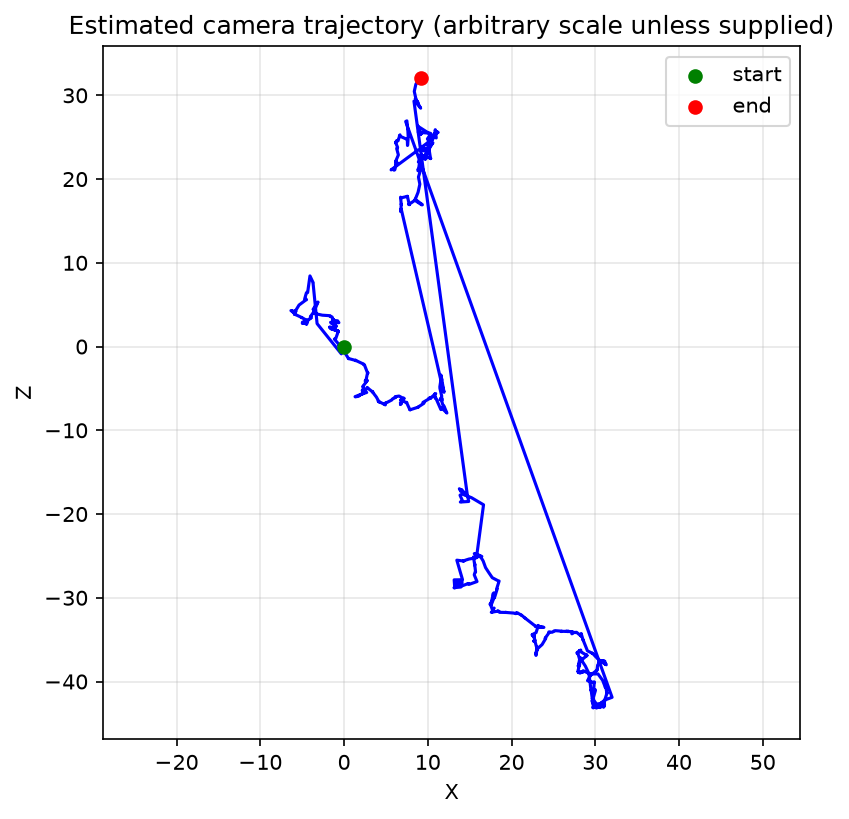
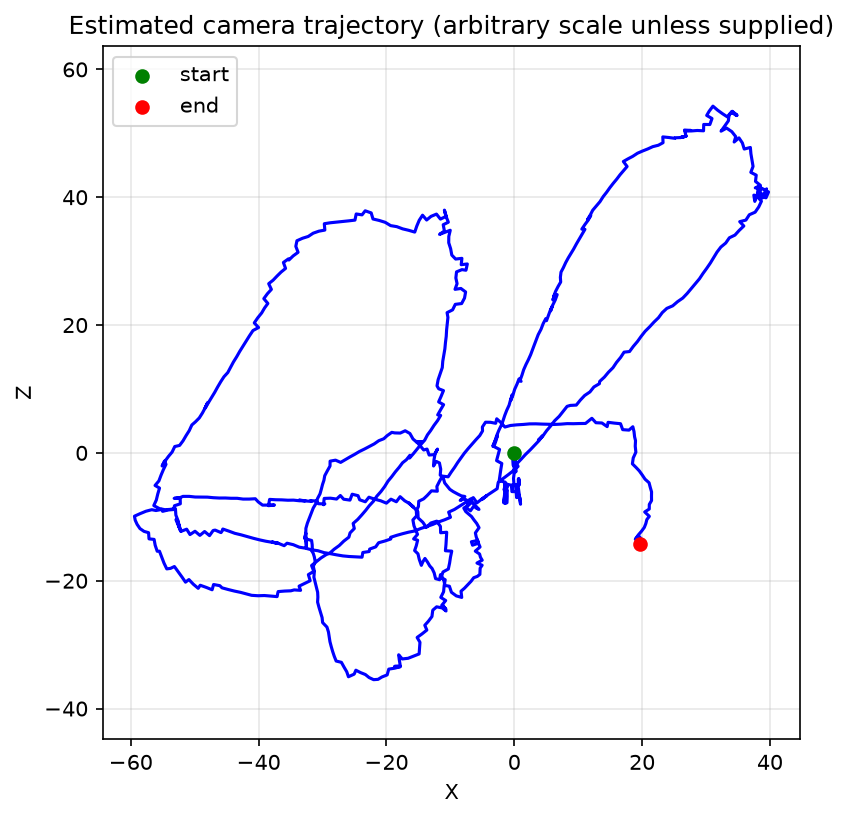
orb slam

diff --git a/orb-slam/monocular_vo.py b/orb-slam/monocular_vo.py
@@ -22,22 +22,12 @@ Install:
 Pipeline per frame:
     1. Detect ORB keypoints + descriptors with python_orb_slam3.ORBExtractor.
     2. Match against the previous frame's descriptors (ratio test).
-    3. Fit BOTH an Essential matrix E and a Homography H with RANSAC.
-    4. Model selection (as in ORB-SLAM's initializer): the Essential matrix
-       E = [t]_x R is mathematically degenerate as the translation t -> 0,
-       so pure/near-pure camera rotation (panning/turning in place, little
-       or no translation) makes E-based rotation estimates noisy or wrong.
-       A Homography stays well-conditioned in exactly that regime, so if H
-       explains the matches at least as well as E does (by inlier ratio),
-       rotation is recovered by decomposing H instead of E.
+    3. Estimate the Essential matrix E with RANSAC (needs camera intrinsics K).
+    4. Recover relative rotation R and translation direction t from E.
     5. Accumulate global pose:  R_global = R * R_global ;  t_global += s * R_global * t
        (monocular VO cannot recover absolute scale s from a single camera --
         you either supply it externally, e.g. from wheel odometry/GPS/IMU/known
         speed, or just visualize the trajectory up to an unknown scale factor.)
-    6. Track how much rotation has actually occurred: per-frame relative
-       rotation angle, a running cumulative total, and the current absolute
-       yaw/pitch/roll, all printed/drawn so you can read the numbers instead
-       of only seeing a (possibly flat) translation trace.
 
 Visualization:
     - A live OpenCV window showing detected keypoints on the current frame.
@@ -77,34 +67,6 @@ except ImportError as e:
         "architectures you need to build it from source, see the project's "
         "GitHub page for build instructions)."
     ) from e
-
-
-# --------------------------------------------------------------------------- #
-# Rotation utilities
-# --------------------------------------------------------------------------- #
-def rotation_angle_deg(R):
-    """Magnitude of the rotation represented by R, in degrees (axis-angle norm).
-    Sign-agnostic -- useful as a 'how much did it turn' odometer even when
-    the axis of rotation varies frame to frame."""
-    rvec, _ = cv2.Rodrigues(R.astype(np.float64))
-    return float(np.degrees(np.linalg.norm(rvec)))
-
-
-def rotation_matrix_to_euler_deg(R):
-    """Yaw/pitch/roll in degrees for OpenCV camera axes (X-right, Y-down, Z-forward):
-    yaw = turning left/right (rotation about Y), pitch = tilting up/down
-    (rotation about X), roll = tilting sideways (rotation about Z)."""
-    sy = np.sqrt(R[0, 2] ** 2 + R[2, 2] ** 2)
-    singular = sy < 1e-6
-    if not singular:
-        yaw = np.arctan2(R[0, 2], R[2, 2])
-        pitch = np.arctan2(-R[1, 2], sy)
-        roll = np.arctan2(R[1, 0], R[1, 1])
-    else:
-        yaw = np.arctan2(-R[2, 0], R[0, 0])
-        pitch = np.arctan2(-R[1, 2], sy)
-        roll = 0.0
-    return tuple(float(v) for v in np.degrees([yaw, pitch, roll]))
 
 
 # --------------------------------------------------------------------------- #
@@ -155,23 +117,25 @@ class FrameReader:
 # Core monocular VO
 # --------------------------------------------------------------------------- #
 class MonocularVO:
-    def __init__(self, K, n_features=3000, min_matches=8, ratio=0.75,
-                 homography_ratio_thresh=0.45, min_parallax_px=0.75):
+    def __init__(self, K, n_features=3000, min_matches=8, ratio=0.75):
         self.K = K
         # ORB-SLAM3's own feature extractor (quad-tree keypoint distribution),
         # API-compatible with cv2.ORB_create()'s detectAndCompute().
         self.orb = ORBExtractor(n_features=n_features, scale_factor=1.2, n_levels=8)
         self.bf = cv2.BFMatcher(cv2.NORM_HAMMING, crossCheck=False)
+        # Define LSH index parameters for binary descriptors
+        FLANN_INDEX_LSH = 6
+        index_params = dict(
+            algorithm=FLANN_INDEX_LSH,
+            table_number=6,       # Standard recommendation
+            key_size=12,          # Standard recommendation
+            multi_probe_level=1,   # Standard recommendation
+        )
+        search_params = dict(checks=50)
+        # Initialize the matcher with LSH parameters
+        self.flann = cv2.FlannBasedMatcher(index_params, search_params)
         self.min_matches = min_matches
         self.ratio = ratio
-        # If the homography inlier ratio SH/(SH+SE) exceeds this, prefer the
-        # homography-derived rotation over the essential-matrix one (ORB-SLAM
-        # uses ~0.45 here). This is what rescues rotation estimates during
-        # near-pure-rotation motion, where the essential matrix is degenerate.
-        self.homography_ratio_thresh = homography_ratio_thresh
-        # Skip the pose update entirely if the median match displacement (px)
-        # is below this -- there isn't enough signal to trust any estimate.
-        self.min_parallax_px = min_parallax_px
 
         self.prev_gray = None
         self.prev_kp = None
@@ -183,11 +147,7 @@ class MonocularVO:
         # trajectory[i] is the 3x1 camera position at step i (arbitrary scale
         # unless an external scale is supplied every frame)
         self.trajectory = [self.cur_t.copy()]
-        self.orientations = [self.cur_R.copy()]
         self.num_inlier_matches = 0
-        self.pose_model = None  # "essential" or "homography", whichever was used last
-        self.last_relative_rotation_deg = 0.0
-        self.cumulative_rotation_deg = 0.0  # running total, an "odometer" for turning
 
     @staticmethod
     def to_gray(frame):
@@ -201,7 +161,7 @@ class MonocularVO:
     def _match(self, des1, des2):
         if des1 is None or des2 is None or len(des1) < 2 or len(des2) < 2:
             return []
-        knn = self.bf.knnMatch(des1, des2, k=2)
+        knn = self.flann.knnMatch(des1, des2, k=2)
         good = []
         for pair in knn:
             if len(pair) != 2:
@@ -210,61 +170,6 @@ class MonocularVO:
             if m.distance < self.ratio * n.distance:
                 good.append(m)
         return good
-
-    @staticmethod
-    def _select_homography_solution(Rs, Ts, Ns, pts_prev, pts_cur):
-        """Pick the physically valid homography decomposition. decomposeHomographyMat
-        returns up to 4 mathematical solutions; filter by the positive-depth
-        (cheirality) constraint when possible, then break any remaining tie by
-        preferring the smallest translation norm -- correct in the near-pure-
-        rotation regime this fallback targets, where the true translation is
-        close to zero."""
-        num = len(Rs)
-        candidates = list(range(num))
-        try:
-            sol = cv2.filterHomographyDecompByVisibleRefpoints(
-                Rs, Ns,
-                pts_prev.reshape(-1, 1, 2).astype(np.float32),
-                pts_cur.reshape(-1, 1, 2).astype(np.float32),
-            )
-            if sol is not None and len(sol) > 0:
-                candidates = sol.flatten().tolist()
-        except cv2.error:
-            pass  # keep the unfiltered candidate list
-        return min(candidates, key=lambda i: np.linalg.norm(Ts[i]))
-
-    def _estimate_relative_pose(self, pts_prev, pts_cur):
-        """Returns (R, t, model_name, num_inliers) or (None, None, None, 0)."""
-        E, mask_e = cv2.findEssentialMat(
-            pts_cur, pts_prev, self.K, method=cv2.RANSAC, prob=0.999, threshold=1.0
-        )
-        H, mask_h = cv2.findHomography(pts_prev, pts_cur, cv2.RANSAC, 3.0)
-
-        inliers_e = int(mask_e.sum()) if mask_e is not None else 0
-        inliers_h = int(mask_h.sum()) if mask_h is not None else 0
-
-        if inliers_e + inliers_h == 0:
-            return None, None, None, 0
-
-        homography_ratio = inliers_h / max(inliers_e + inliers_h, 1)
-
-        # --- Prefer homography when it explains the motion at least as well:
-        # this is the case that rescues rotation during near-pure-rotation
-        # motion, where the essential matrix is degenerate. ---
-        if H is not None and homography_ratio > self.homography_ratio_thresh:
-            num, Rs, Ts, Ns = cv2.decomposeHomographyMat(H, self.K)
-            if num > 0:
-                best = self._select_homography_solution(Rs, Ts, Ns, pts_prev, pts_cur)
-                return Rs[best], Ts[best], "homography", inliers_h
-
-        # --- Otherwise fall back to the essential matrix (needs real baseline) ---
-        if E is not None and E.shape == (3, 3):
-            _, R, t, pose_mask = cv2.recoverPose(E, pts_cur, pts_prev, self.K, mask=mask_e)
-            n_inliers = int(pose_mask.sum()) if pose_mask is not None else 0
-            if n_inliers >= self.min_matches:
-                return R, t, "essential", n_inliers
-
-        return None, None, None, 0
 
     def process_frame(self, frame, scale=1.0):
         """
@@ -287,28 +192,22 @@ class MonocularVO:
         pts_prev = np.float32([self.prev_kp[m.queryIdx].pt for m in matches])
         pts_cur = np.float32([kp[m.trainIdx].pt for m in matches])
 
-        # Not enough parallax (near-static frames, duplicated frames, etc.) --
-        # skip rather than accept a numerically unstable estimate.
-        median_flow = float(np.median(np.linalg.norm(pts_cur - pts_prev, axis=1)))
-        if median_flow < self.min_parallax_px:
+        E, mask = cv2.findEssentialMat(
+            pts_cur, pts_prev, self.K, method=cv2.RANSAC, prob=0.999, threshold=1.0
+        )
+
+        if E is None or E.shape != (3, 3):
             self.prev_gray, self.prev_kp, self.prev_des = gray, kp, des
             return kp, matches
 
-        R, t, model, n_inliers = self._estimate_relative_pose(pts_prev, pts_cur)
-        self.num_inlier_matches = n_inliers
-        self.pose_model = model
+        _, R, t, pose_mask = cv2.recoverPose(E, pts_cur, pts_prev, self.K, mask=mask)
+        self.num_inlier_matches = int(pose_mask.sum()) if pose_mask is not None else 0
 
-        if R is not None:
-            # Per-frame and cumulative rotation, so "how much rotation has
-            # occurred" is an explicit number instead of something you have
-            # to infer from the trajectory shape.
-            self.last_relative_rotation_deg = rotation_angle_deg(R)
-            self.cumulative_rotation_deg += self.last_relative_rotation_deg
-
+        # Reject degenerate / low-inlier estimates
+        if self.num_inlier_matches >= self.min_matches:
             self.cur_t = self.cur_t + scale * (self.cur_R @ t)
             self.cur_R = R @ self.cur_R
             self.trajectory.append(self.cur_t.copy())
-            self.orientations.append(self.cur_R.copy())
 
         self.prev_gray, self.prev_kp, self.prev_des = gray, kp, des
         return kp, matches
@@ -317,11 +216,8 @@ class MonocularVO:
 # --------------------------------------------------------------------------- #
 # Visualization helpers
 # --------------------------------------------------------------------------- #
-def draw_trajectory_canvas(trajectory, orientations=None, canvas_size=600, world_scale=1.0):
-    """Renders the X-Z trajectory onto a fresh top-down canvas each call.
-    If `orientations` is given, also draws an arrow for the current heading
-    (the camera's forward/+Z axis projected onto the X-Z plane) so rotation
-    is visible, not just position."""
+def draw_trajectory_canvas(trajectory, canvas_size=600, world_scale=1.0):
+    """Renders the X-Z trajectory onto a fresh top-down canvas each call."""
     canvas = np.full((canvas_size, canvas_size, 3), 30, dtype=np.uint8)
     cx, cy = canvas_size // 2, canvas_size // 2
     cv2.circle(canvas, (cx, cy), 3, (0, 0, 255), -1)  # origin marker
@@ -339,16 +235,7 @@ def draw_trajectory_canvas(trajectory, orientations=None, canvas_size=600, world
     if pts:
         cv2.circle(canvas, pts[-1], 4, (255, 255, 0), -1)  # current position
 
-        if orientations is not None and len(orientations) == len(pts):
-            forward = orientations[-1] @ np.array([0.0, 0.0, 1.0])  # camera +Z in world
-            heading = np.array([forward[0], forward[2]])
-            norm = np.linalg.norm(heading)
-            if norm > 1e-6:
-                heading = heading / norm * 25  # fixed-length arrow
-                tip = (int(pts[-1][0] + heading[0]), int(pts[-1][1] + heading[1]))
-                cv2.arrowedLine(canvas, pts[-1], tip, (0, 165, 255), 2, tipLength=0.35)
-
-    cv2.putText(canvas, "Top-down trajectory (X-Z), arrow = heading", (10, 20),
+    cv2.putText(canvas, "Top-down trajectory (X-Z)", (10, 20),
                 cv2.FONT_HERSHEY_SIMPLEX, 0.5, (200, 200, 200), 1)
     return canvas
 
@@ -377,8 +264,8 @@ def main():
     parser = argparse.ArgumentParser(description="Monocular Visual Odometry (ORB + Essential matrix)")
     parser.add_argument("--source", default="1",
                          help="Webcam index (e.g. 0), path to a video file, or path to a folder of image frames")
-    parser.add_argument("--fx", type=float, default=1345/4, help="Focal length x (pixels)")
-    parser.add_argument("--fy", type=float, default=1345/4, help="Focal length y (pixels)")
+    parser.add_argument("--fx", type=float, default=1345, help="Focal length x (pixels)")
+    parser.add_argument("--fy", type=float, default=1345, help="Focal length y (pixels)")
     parser.add_argument("--cx", type=float, default=360/2, help="Principal point x")
     parser.add_argument("--cy", type=float, default=640/2, help="Principal point y")
     parser.add_argument("--scale", type=float, default=1.0,
@@ -386,13 +273,6 @@ def main():
                               "scale; supply this from external info (e.g. constant speed * dt) "
                               "or leave at 1.0 for a scale-free trajectory shape.")
     parser.add_argument("--n_features", type=int, default=3000, help="Max ORB features per frame")
-    parser.add_argument("--homography_ratio_thresh", type=float, default=0.45,
-                         help="Prefer homography-derived rotation over essential-matrix when "
-                              "homography inliers / (homography+essential inliers) exceeds this. "
-                              "Lower it if rotation still looks wrong during panning/turning.")
-    parser.add_argument("--min_parallax_px", type=float, default=0.75,
-                         help="Skip the pose update if the median matched-keypoint pixel "
-                              "displacement is below this (not enough signal to trust any estimate).")
     parser.add_argument("--no_display", action="store_true",
                          help="Disable live OpenCV windows (useful for headless runs)")
     parser.add_argument("--out", default="trajectory.png", help="Output path for the final trajectory plot")
@@ -405,34 +285,29 @@ def main():
     print("Camera intrinsics K:\n", K)
 
     reader = FrameReader(args.source)
-    vo = MonocularVO(K, n_features=args.n_features,
-                      homography_ratio_thresh=args.homography_ratio_thresh,
-                      min_parallax_px=args.min_parallax_px)
+    vo = MonocularVO(K, n_features=args.n_features)
 
     frame_count = 0
     try:
         while True:
             ok, frame = reader.read()
-            frame = cv2.resize(frame, (360, 640))  # downsample for speed
             if not ok or frame is None:
                 break
+            frame = cv2.resize(frame, (360, 640))  # Resize for faster processing
 
             kp, matches = vo.process_frame(frame, scale=args.scale)
             frame_count += 1
 
             if not args.no_display:
-                yaw, pitch, roll = rotation_matrix_to_euler_deg(vo.cur_R)
                 vis = cv2.drawKeypoints(frame, kp, None, color=(0, 255, 0), flags=0)
-                cv2.putText(vis, f"frame {frame_count} | keypoints {len(kp)} | matches {len(matches)} "
-                                  f"| inliers {vo.num_inlier_matches} | model {vo.pose_model}",
+                cv2.putText(vis, f"frame {frame_count} | keypoints {len(kp)}",
                             (10, 25), cv2.FONT_HERSHEY_SIMPLEX, 0.55, (0, 255, 255), 2)
-                cv2.putText(vis, f"rotation: this-frame {vo.last_relative_rotation_deg:5.2f} deg | "
-                                  f"cumulative {vo.cumulative_rotation_deg:7.2f} deg | "
-                                  f"yaw {yaw:6.1f} pitch {pitch:6.1f} roll {roll:6.1f}",
+                cv2.putText(vis, f"matches {len(matches)} "
+                                    f"| inliers {vo.num_inlier_matches}",
                             (10, 50), cv2.FONT_HERSHEY_SIMPLEX, 0.55, (0, 255, 255), 2)
                 cv2.imshow("Monocular VO - Frame", vis)
 
-                traj_canvas = draw_trajectory_canvas(vo.trajectory, vo.orientations)
+                traj_canvas = draw_trajectory_canvas(vo.trajectory)
                 cv2.imshow("Monocular VO - Trajectory", traj_canvas)
 
                 key = cv2.waitKey(1) & 0xFF
@@ -441,11 +316,7 @@ def main():
                     break
             else:
                 if frame_count % 30 == 0:
-                    yaw, pitch, roll = rotation_matrix_to_euler_deg(vo.cur_R)
-                    print(f"frame {frame_count}: model={vo.pose_model} "
-                          f"this-frame_rot={vo.last_relative_rotation_deg:.2f}deg "
-                          f"cumulative_rot={vo.cumulative_rotation_deg:.2f}deg "
-                          f"yaw={yaw:.1f} pitch={pitch:.1f} roll={roll:.1f}")
+                    print(f"Processed {frame_count} frames...")
 
     finally:
         reader.release()
@@ -453,9 +324,6 @@ def main():
 
     print(f"Total frames processed: {frame_count}")
     print(f"Trajectory points: {len(vo.trajectory)}")
-    final_yaw, final_pitch, final_roll = rotation_matrix_to_euler_deg(vo.cur_R)
-    print(f"Cumulative rotation traveled: {vo.cumulative_rotation_deg:.2f} deg")
-    print(f"Final absolute orientation -> yaw: {final_yaw:.2f}, pitch: {final_pitch:.2f}, roll: {final_roll:.2f}")
     save_matplotlib_plot(vo.trajectory, out_path=args.out)
 
 
